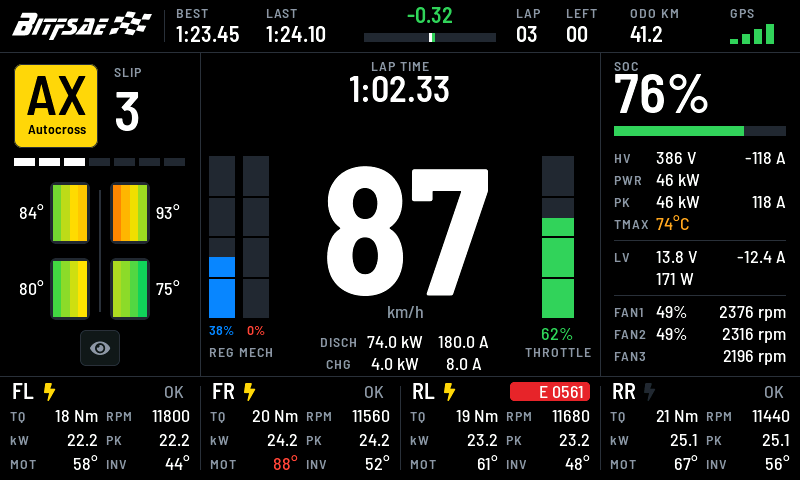
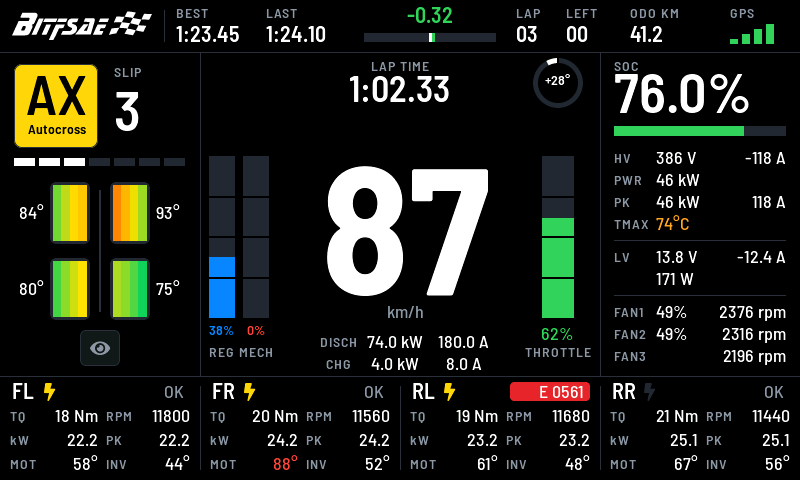
feat(ui): 中栏增加方向盘转角环
- 0x305 的 SteeringWheelAngle（0.1°，左转为正）送入界面：新增 DASH_VALID_STEER、
  CAN_SRC_STEER 和 DASH_DIRTY_STEER，视图新增 Dash_View_SetSteering()
- 圈速右侧、油门条上方的 50 px 圆环：白色圆弧自 12 点按实际转角 1:1 绘制，
  限幅 ±180°，环内显示整数度；整帧超时后显示 -- 并清空圆弧
- 测试覆盖解码极值、有效位与超时、圆弧方向、限幅、舍入和失效；
  模拟器演示加入 ±137° 摆动；文档与界面截图同步

Changed region(s): [[0.8125, 0.1562, 0.9375, 0.25], [0.6562, 0.125, 0.75, 0.25]]

diff --git a/tools/tests/firmware_regression.c b/tools/tests/firmware_regression.c
@@ -197,7 +197,7 @@ static void test_can(void)
     puts("CAN: bounded FIFO, queue saturation, short/remote frames, valid DLCs and steering relay passed");
 }
 /* Every DASH_VALID_* bit, for tests that feed hand-built telemetry to the UI. */
-#define TEST_ALL_VALID ((DASH_VALID_REGEN<<1)-1U)
+#define TEST_ALL_VALID ((DASH_VALID_STEER<<1)-1U)
 static void inject(uint16_t id,unsigned dlc,const uint8_t *bytes)
 {
     memset(test_rx_data,0,8);memcpy(test_rx_data,bytes,dlc);
@@ -439,6 +439,17 @@ static void test_can_decode(void)
             assert(d->oil_pressure==cases[i].oil&&d->aps_open_pct==50);          /* 油门仍取 byte2..3 */
         }
     }
+    /* 0x305 方向盘转角：byte0..1 小端有符号 0.1°，左转为正；与油门同帧，独立有效位。 */
+    {
+        struct {uint8_t lo,hi;int32_t raw;} const cases[]={{0x00,0x00,0},{0x72,0x05,1394},{0x8E,0xFA,-1394},
+                                                           {0xFF,0x7F,32767},{0x00,0x80,-32768}};
+        for(unsigned i=0;i<sizeof(cases)/sizeof(cases[0]);i++) {
+            const uint8_t f[6]={cases[i].lo,cases[i].hi, 0xF4,0x01, 0x57,0x08};
+            inject(0x305,6,f);
+            assert((d->valid_mask&DASH_VALID_STEER)!=0&&d->steering_angle==cases[i].raw);
+            assert(d->aps_open_pct==50&&d->oil_pressure==2135);                 /* 其余字段不受影响 */
+        }
+    }
     /* Silence drops the valid bits: ECU frames after 1 s, BMS after 2 s, never-seen sources stay invalid. */
     {
         const uint8_t fan[8]={0x08,0x00, 0x08,0x00, 0x08,0x00, 40,41};
@@ -452,7 +463,7 @@ static void test_can_decode(void)
         assert((d->valid_mask&DASH_VALID_FAN)==0&&(d->valid_mask&DASH_VALID_SOC)!=0);
         test_tick+=500;User_CAN_ServiceTimeouts(test_tick);
         assert((d->valid_mask&(DASH_VALID_SOC|DASH_VALID_HV_V|DASH_VALID_HV_I))==0);
-        assert((d->valid_mask&(DASH_VALID_BRAKE|DASH_VALID_APS))==0);               /* 0x305 timed out */
+        assert((d->valid_mask&(DASH_VALID_BRAKE|DASH_VALID_APS|DASH_VALID_STEER))==0); /* 0x305 timed out */
         assert((d->valid_mask&DASH_VALID_REGEN)==0);                                /* encoder also timed out */
         Dashboard_UI_Process();test_tick+=300;Dashboard_UI_Process();
         assert((Dashboard_UI_GetCurrentData()->valid_mask&DASH_VALID_SOC)==0);       /* and the UI copy follows */
@@ -1657,6 +1668,50 @@ static void test_ui(void)
     lv_mem_monitor_t m;lv_mem_monitor(&m);assert(m.free_size>1024);
     printf("UI: 400 telemetry/mode/alert cycles, identical-value skip and 120 KiB host pool passed (peak %zu, free %zu)\n",m.max_used,m.free_size);
 }
+/* 方向盘转角环：UI 副本与有效位、圆弧方向（左转为正，自 12 点逆时针）、±180° 限幅、无效时清空。
+ * 环心 (558,83)、外半径 25、环宽 5，取环上 9/3/6 点钟及 12 点钟两侧的像素判断是否为白色圆弧；
+ * 探针避开 90° 整数边界（9/3 点钟取上移 3 px），免得落在圆弧端点的抗锯齿边上。 */
+static void test_steering_ring(void)
+{
+    enum {CX=558,CY=83,R=22};
+    #define RING_WHITE(dx,dy) (frame_pixels[(CY+(dy))*800+CX+(dx)]==0xFFFFU)
+    struct {int32_t raw;unsigned valid;int nine,three,six_left,six_right,top_left,top_right;} const cases[]={
+        /*  0.1°    valid  9点 3点 6点左 6点右 12点左 12点右 */
+        {  900,    1,     1,  0,   0,    0,    1,     0},   /* 左转 90°：圆弧在左半环 */
+        { -900,    1,     0,  1,   0,    0,    0,     1},   /* 右转 90° */
+        { 1800,    1,     1,  0,   1,    0,    1,     0},   /* 左转 180°：到 6 点钟为止 */
+        { 3000,    1,     1,  0,   1,    0,    1,     0},   /* 300° 限幅为 180°，不绕到右半环 */
+        {-3000,    1,     0,  1,   0,    1,    0,     1},
+        {    0,    1,     0,  0,   0,    0,    0,     0},   /* 回正：只剩灰色底环 */
+        {   -4,    1,     0,  0,   0,    0,    0,     0},   /* 0.4° 四舍五入为 0° */
+        {  900,    0,     0,  0,   0,    0,    0,     0},   /* 数据失效：清空圆弧并显示 -- */
+        {32767,    1,     1,  0,   1,    0,    1,     0},   /* int16 极值不溢出 */
+        {-32768,   1,     0,  1,   0,    1,    0,     1},
+    };
+    for(unsigned i=0;i<sizeof(cases)/sizeof(cases[0]);i++) {
+        dashboard_data_t data=*Dashboard_UI_GetCurrentData();
+        data.valid_mask=TEST_ALL_VALID&~(cases[i].valid?0U:DASH_VALID_STEER);
+        data.steering_angle=cases[i].raw;
+        Dashboard_UI_SubmitData(&data);test_tick+=300;Dashboard_UI_Process();lv_refr_now(NULL);
+        assert(Dashboard_UI_GetCurrentData()->steering_angle==cases[i].raw);
+        assert(((Dashboard_UI_GetCurrentData()->valid_mask&DASH_VALID_STEER)!=0U)==(cases[i].valid!=0U));
+        assert(RING_WHITE(-R,-3)==cases[i].nine&&RING_WHITE(R,-3)==cases[i].three);
+        assert(RING_WHITE(-3,R)==cases[i].six_left&&RING_WHITE(3,R)==cases[i].six_right);
+        assert(RING_WHITE(-4,-R)==cases[i].top_left&&RING_WHITE(4,-R)==cases[i].top_right);
+    }
+    /* 再次提交同一角度不得触发任何重绘。 */
+    {
+        dashboard_data_t data=*Dashboard_UI_GetCurrentData();
+        data.valid_mask|=DASH_VALID_STEER;data.steering_angle=-32768;
+        Dashboard_UI_SubmitData(&data);test_tick+=300;Dashboard_UI_Process();lv_refr_now(NULL);
+        flushes=0;Dash_View_SetSteering(-32768);lv_refr_now(NULL);assert(flushes==0);
+    }
+    /* 视图接口本身接受任意 int32（含无效哨兵），不得溢出。 */
+    Dash_View_SetSteering(INT32_MAX);Dash_View_SetSteering(INT32_MIN+1);Dash_View_SetSteering(DASH_VIEW_INVALID);
+    lv_refr_now(NULL);
+    #undef RING_WHITE
+    puts("Steering ring: CAN sign, direction, clamp, rounding, invalid and identical-value skip passed");
+}
 /* Representative telemetry for screenshots: one frame per drive mode plus an
  * alert frame (mode-4), the S-mode READY banner (mode-5) and the no-data frame (mode-6). */
 static void save_frame(const char *directory,unsigned index)
@@ -1672,7 +1727,7 @@ static void render_modes(const char *directory)
     dashboard_data_t data=*Dashboard_UI_GetCurrentData();
     data.valid_mask=TEST_ALL_VALID;data.soc=760;data.sum_voltage=386;data.sum_current=-118;
     data.sum_voltage_dv=3860;data.sum_current_da=-1180;data.max_temperature=74;
-    data.aps_open_pct=62;data.brake_pct=0;data.regen_pct=38;
+    data.aps_open_pct=62;data.brake_pct=0;data.regen_pct=38;data.steering_angle=280;
     data.lv_bus_voltage_mV=13820;data.lv_bus_current_cA=-1240;data.lv_bus_power_dW=1712;
     data.fan_rpm[0]=2376;data.fan_rpm[1]=2316;data.fan_rpm[2]=2196;data.fan_pwm_duty[0]=49;data.fan_pwm_duty[1]=49;
     data.sop_discharge_power_dkw=740;data.sop_charge_power_dkw=40;data.sop_discharge_current_da=1800;data.sop_charge_current_da=80;
@@ -1867,6 +1922,6 @@ int main(int argc,char **argv)
     else test_splash();
 #endif
     if(argc==2) {render_modes(argv[1]);return 0;}
-    test_can();test_can_tx_recovery();test_brake_pedal_module();test_can_decode();test_brake_pedal_can();test_steering();test_odometer();test_gps();test_speed_module();test_gps_pipeline();test_continuity();test_gps_link();test_gps_config();test_cli();test_ui_speed();test_mode_touch();test_mode_touch_release();test_default_mode();test_ui();test_motor_peak();test_gps_motion();test_can_tx_sustained();return 0;
+    test_can();test_can_tx_recovery();test_brake_pedal_module();test_can_decode();test_brake_pedal_can();test_steering();test_odometer();test_gps();test_speed_module();test_gps_pipeline();test_continuity();test_gps_link();test_gps_config();test_cli();test_ui_speed();test_mode_touch();test_mode_touch_release();test_default_mode();test_ui();test_steering_ring();test_motor_peak();test_gps_motion();test_can_tx_sustained();return 0;
 }
 /* USER CODE END Firmware_Regression */

diff --git a/stm32_port/Core/Src/dashboard_view.c b/stm32_port/Core/Src/dashboard_view.c
@@ -4,7 +4,7 @@
  * Layout (px):
  *   0..52    top bar: logo image | BEST | LAST | delta | LAP | LEFT | ODO | GPS
  *   52..376  left 0..200: mode tile, slip, tyre map, night button
- *            centre 200..600: lap time, alert banner, speed, pedal bars
+ *            centre 200..600: lap time, steering ring, alert banner, speed, pedal bars
  *            right 600..800: SOC, HV, power, max temp, LV bus, fans
  *   376..480 four motor columns FL | FR | RL | RR
  *
@@ -83,6 +83,16 @@ extern const lv_image_dsc_t dash_logo; /* 140x29 A8, tools/gen_dash_logo.sh */
 #define MECH_X       243
 #define BRAKE_PEDAL_W 26
 #define THROTTLE_X   542
+
+/* 方向盘转角环：在圈速时间右侧、油门条正上方（圆心与油门条同一竖线），
+ * 底边留 2 px 给 y=110 起的告警横幅。圆弧自 12 点起按 1:1 的实际转角绘制，
+ * 限幅 ±180°；环内文字为整数度，限幅 ±999 以保证放得进环内。 */
+#define STEER_D      50
+#define STEER_X      (THROTTLE_X + PEDAL_W / 2 - STEER_D / 2)
+#define STEER_Y      58
+#define STEER_W      5
+#define STEER_ARC_MAX_DEG 180
+#define STEER_TEXT_MAX_DEG 999
 
 #define TIRE_W       40
 #define TIRE_H       62
@@ -164,6 +174,8 @@ static struct {
     lv_obj_t * regen_pct;
     lv_obj_t * throttle_bar;
     lv_obj_t * throttle_pct;
+    lv_obj_t * steer_ring;
+    lv_obj_t * steer_value;
     lv_obj_t * soc;
     lv_obj_t * soc_bar;
     lv_obj_t * hv_voltage;
@@ -200,6 +212,7 @@ static dash_bar_t s_regen_bar = {0, 100, C_BLUE, 1, 1};
 static dash_bar_t s_throttle_bar = {0, 100, C_GREEN, 1, 1};
 static dash_bar_t s_soc_bar = {0, 1000, C_GREEN, 0, 0};
 static int32_t s_delta;
+static int32_t s_steer_deg = DASH_VIEW_INVALID;  /* 整数度，左转为正 */
 static int32_t s_slip = -1;
 static int32_t s_signal = -1;
 static int32_t s_speed = -1;
@@ -385,6 +398,40 @@ static void delta_draw_cb(lv_event_t * e)
     if(s_delta < 0) fill_rect(layer, centre + 1, a.y1, centre + fill, a.y2, C_GREEN);
     else if(s_delta > 0) fill_rect(layer, centre - fill, a.y1, centre - 1, a.y2, C_RED);
     fill_rect(layer, centre - 1, a.y1 - 3, centre + 1, a.y2 + 3, C_TEXT);
+}
+
+/* Steering ring: grey track plus a white arc from 12 o'clock towards the turn
+ * direction (left = counter-clockwise, as the rim moves). LVGL angles count
+ * clockwise from 3 o'clock, so 12 o'clock is 270. A black notch marks centre. */
+static void steer_draw_cb(lv_event_t * e)
+{
+    lv_layer_t * layer = lv_event_get_layer(e);
+    lv_draw_arc_dsc_t dsc;
+    lv_area_t a;
+    int32_t sweep = s_steer_deg;
+
+    lv_obj_get_coords(lv_event_get_current_target_obj(e), &a);
+    lv_draw_arc_dsc_init(&dsc);
+    dsc.center.x = a.x1 + lv_area_get_width(&a) / 2;
+    dsc.center.y = a.y1 + lv_area_get_height(&a) / 2;
+    dsc.radius = (uint16_t)(lv_area_get_width(&a) / 2);
+    dsc.width = STEER_W;
+    dsc.color = lv_color_hex(C_TRACK);
+    dsc.start_angle = 0;
+    dsc.end_angle = 360;
+    lv_draw_arc(layer, &dsc);
+
+    if(sweep != DASH_VIEW_INVALID) {
+        if(sweep > STEER_ARC_MAX_DEG) sweep = STEER_ARC_MAX_DEG;
+        if(sweep < -STEER_ARC_MAX_DEG) sweep = -STEER_ARC_MAX_DEG;
+        if(sweep != 0) {
+            dsc.color = lv_color_hex(C_TEXT);
+            dsc.start_angle = (sweep > 0) ? (270 - sweep) : 270;
+            dsc.end_angle = (sweep > 0) ? 270 : (270 - sweep);
+            lv_draw_arc(layer, &dsc);
+        }
+    }
+    fill_rect(layer, dsc.center.x - 1, a.y1, dsc.center.x, a.y1 + STEER_W - 1, C_BG);
 }
 
 static void slip_draw_cb(lv_event_t * e)
@@ -591,6 +638,12 @@ static void create_centre(lv_obj_t * scr)
                          &st_aux_value, 234, 44, &ui.brake_pct);
     ui.throttle_bar = pedal(scr, THROTTLE_X, PEDAL_W, &s_throttle_bar, "THROTTLE", C_GREEN,
                             &st_value, THROTTLE_X - 26, 84, &ui.throttle_pct);
+
+    ui.steer_ring = make_box(scr, STEER_X, STEER_Y, STEER_D, STEER_D);
+    lv_obj_add_event_cb(ui.steer_ring, steer_draw_cb, LV_EVENT_DRAW_MAIN, NULL);
+    ui.steer_value = make_label(scr, &st_aux_value, STEER_X, STEER_Y + (STEER_D - 17) / 2,
+                                STEER_D, &st_center, "--");
+    lv_obj_set_style_text_color(ui.steer_value, lv_color_hex(C_DIM), 0);
 
     /* Created last so the banner paints over the lap-time row edges. */
     ui.alert_box = make_box(scr, ALERT_X, ALERT_Y, ALERT_W, ALERT_H);
@@ -821,6 +874,31 @@ void Dash_View_SetPedals(int32_t throttle_pct, int32_t mechanical_brake_pct,
     set_pedal(ui.throttle_bar, &s_throttle_bar, ui.throttle_pct, throttle_pct);
     set_pedal(ui.brake_bar, &s_brake_bar, ui.brake_pct, mechanical_brake_pct);
     set_pedal(ui.regen_bar, &s_regen_bar, ui.regen_pct, regen_pct);
+}
+
+void Dash_View_SetSteering(int32_t angle_deci)
+{
+    char buf[8];
+    int32_t deg = DASH_VIEW_INVALID;
+
+    if(angle_deci != DASH_VIEW_INVALID) {
+        /* 先限幅再四舍五入到整数度（远离零），避免极端输入在取反或加 5 时溢出。 */
+        const int32_t limit = STEER_TEXT_MAX_DEG * 10;
+        if(angle_deci > limit) angle_deci = limit;
+        if(angle_deci < -limit) angle_deci = -limit;
+        deg = (angle_deci >= 0) ? (angle_deci + 5) / 10 : -((-angle_deci + 5) / 10);
+    }
+    if(deg == s_steer_deg) return;
+    s_steer_deg = deg;
+    lv_obj_invalidate(ui.steer_ring);
+    if(deg == DASH_VIEW_INVALID) {
+        set_text(ui.steer_value, "--");
+        set_text_color(ui.steer_value, C_DIM);
+        return;
+    }
+    lv_snprintf(buf, sizeof(buf), "%s%ld" DEG, (deg > 0) ? "+" : "", (long)deg);
+    set_text(ui.steer_value, buf);
+    set_text_color(ui.steer_value, C_TEXT);
 }
 
 void Dash_View_SetBattery(int32_t soc_pct, int32_t voltage_v, int32_t current_a)

diff --git a/stm32_port/Core/Src/dashboard_ui.c b/stm32_port/Core/Src/dashboard_ui.c
@@ -103,12 +103,14 @@ static uint32_t g_lap_analysis_blink_tick = 0U;
 #define DASH_DIRTY_LOWVOLTAGE (1UL << 13)
 #define DASH_DIRTY_FANS     (1UL << 14)
 #define DASH_DIRTY_SOP      (1UL << 15)
-#define DASH_DIRTY_MOTORS   (DASH_DIRTY_MOTOR_0 | DASH_DIRTY_MOTOR_1 | \
+#define DASH_DIRTY_STEER    (1UL << 16)
+#define DASH_DIRTY_MOTORS  (DASH_DIRTY_MOTOR_0 | DASH_DIRTY_MOTOR_1 | \
                              DASH_DIRTY_MOTOR_2 | DASH_DIRTY_MOTOR_3)
 #define DASH_DIRTY_TIRES    (DASH_DIRTY_TIRE_0 | DASH_DIRTY_TIRE_1 | \
                              DASH_DIRTY_TIRE_2 | DASH_DIRTY_TIRE_3)
 #define DASH_DIRTY_FAST     (DASH_DIRTY_MODE | DASH_DIRTY_PEDALS | DASH_DIRTY_MOTORS | \
-                             DASH_DIRTY_SLIP | DASH_DIRTY_TIRES | DASH_DIRTY_FANS)
+                             DASH_DIRTY_SLIP | DASH_DIRTY_TIRES | DASH_DIRTY_FANS | \
+                             DASH_DIRTY_STEER)
 #define DASH_DIRTY_SLOW     (DASH_DIRTY_BATTERY | DASH_DIRTY_ODOMETER | \
                              DASH_DIRTY_LOWVOLTAGE | DASH_DIRTY_SOP)
 #define DASH_DIRTY_ALL      (DASH_DIRTY_FAST | DASH_DIRTY_SLOW)
@@ -695,6 +697,9 @@ static void dashboard_apply_data(uint32_t dirty_mask)
                             ((valid & DASH_VALID_BRAKE) != 0U) ? g_dashboard_data.brake_pct : DASH_VIEW_INVALID,
                             ((valid & DASH_VALID_REGEN) != 0U) ? g_dashboard_data.regen_pct : DASH_VIEW_INVALID);
     }
+    if((dirty_mask & DASH_DIRTY_STEER) != 0U) {
+        Dash_View_SetSteering(((valid & DASH_VALID_STEER) != 0U) ? g_dashboard_data.steering_angle : DASH_VIEW_INVALID);
+    }
     if((dirty_mask & DASH_DIRTY_LOWVOLTAGE) != 0U) {
         /* DBC BO_1440 PDM_LowVoltageBus: mV/cA/dW raw engineering units */
         if((valid & DASH_VALID_LV_BUS) != 0U) {
@@ -764,6 +769,10 @@ void Dashboard_UI_SubmitData(const dashboard_data_t * data)
        ((valid_changed & DASH_VALID_PEDAL_GROUP) != 0U)) {
         dirty_mask |= DASH_DIRTY_PEDALS;
     }
+    if((g_pending_dashboard_data.steering_angle != data->steering_angle) ||
+       ((valid_changed & DASH_VALID_STEER) != 0U)) {
+        dirty_mask |= DASH_DIRTY_STEER;
+    }
     if((g_pending_dashboard_data.lv_bus_voltage_mV != data->lv_bus_voltage_mV) ||
        (g_pending_dashboard_data.lv_bus_current_cA != data->lv_bus_current_cA) ||
        (g_pending_dashboard_data.lv_bus_power_dW != data->lv_bus_power_dW) ||
@@ -811,6 +820,7 @@ void Dashboard_UI_SubmitData(const dashboard_data_t * data)
     g_pending_dashboard_data.sum_current_da = data->sum_current_da;
     g_pending_dashboard_data.max_temperature = data->max_temperature;
     g_pending_dashboard_data.aps_open_pct = data->aps_open_pct;
+    g_pending_dashboard_data.steering_angle = data->steering_angle;
     g_pending_dashboard_data.lv_bus_voltage_mV = data->lv_bus_voltage_mV;
     g_pending_dashboard_data.lv_bus_current_cA = data->lv_bus_current_cA;
     g_pending_dashboard_data.lv_bus_power_dW = data->lv_bus_power_dW;
@@ -1380,6 +1390,10 @@ void Dashboard_UI_Process(void)
             g_dashboard_data.brake_pct = g_pending_dashboard_data.brake_pct;
             g_dashboard_data.regen_pct = g_pending_dashboard_data.regen_pct;
             dashboard_copy_valid(DASH_VALID_PEDAL_GROUP);
+        }
+        if((dashboard_mask & DASH_DIRTY_STEER) != 0U) {
+            g_dashboard_data.steering_angle = g_pending_dashboard_data.steering_angle;
+            dashboard_copy_valid(DASH_VALID_STEER);
         }
         if((dashboard_mask & DASH_DIRTY_LOWVOLTAGE) != 0U) {
             g_dashboard_data.lv_bus_voltage_mV = g_pending_dashboard_data.lv_bus_voltage_mV;

diff --git a/stm32_port/Core/Src/can.c b/stm32_port/Core/Src/can.c
@@ -159,6 +159,7 @@ typedef enum {
   CAN_SRC_BMS,
   CAN_SRC_APS,
   CAN_SRC_MECH_BRAKE,
+  CAN_SRC_STEER,
   CAN_SRC_BRAKE_ANGLE,
   CAN_SRC_TORQUE,
   CAN_SRC_RPM,
@@ -197,6 +198,7 @@ static const struct {
   [CAN_SRC_BMS]        = {DASH_VALID_SOC | DASH_VALID_HV_V | DASH_VALID_HV_I, CAN_TIMEOUT_BMS_MS},
   [CAN_SRC_APS]        = {DASH_VALID_APS,        CAN_TIMEOUT_ECU_MS},
   [CAN_SRC_MECH_BRAKE] = {DASH_VALID_BRAKE,      CAN_TIMEOUT_ECU_MS},
+  [CAN_SRC_STEER]      = {DASH_VALID_STEER,      CAN_TIMEOUT_ECU_MS},
   [CAN_SRC_BRAKE_ANGLE] = {DASH_VALID_REGEN,     CAN_TIMEOUT_BRAKE_ANGLE_MS},
   [CAN_SRC_TORQUE]     = {DASH_VALID_TORQUE,     CAN_TIMEOUT_ECU_MS},
   [CAN_SRC_RPM]        = {DASH_VALID_RPM,        CAN_TIMEOUT_ECU_MS},
@@ -1005,8 +1007,11 @@ static void User_CAN_ProcessFifo0(const User_CAN_RxItem_t *frame)
      * 左路 L（Byte6..7）当前不使用，DLC=8 帧也只取前 6 字节。 */
     case 0x305:
     {
-      /* SG_ SteeringWheelAngle: 0|16@1- (0.1,0) deg, stored as the raw 0.1 deg count */
+      /* SG_ SteeringWheelAngle: 0|16@1- (0.1,0) deg, stored as the raw 0.1 deg count;
+       * 左转为正。与油门同帧，单独计新鲜度，由界面显示转角环。 */
       g_can_dashboard_data.steering_angle = (int32_t)(int16_t)can_u16_le(CAN_RxData, 0U);
+      User_CAN_NoteRx(CAN_SRC_STEER, now);
+      User_CAN_SetValid(DASH_VALID_STEER, 1U);
       /* SG_ APS_OpenPct: 16|16@1+ (0.1,0) %, store integer pct */
       g_can_dashboard_data.aps_open_pct = (int32_t)(can_u16_le(CAN_RxData, 2U) / 10U);
       /* SG_ OilPressure_R: 32|16@1+ (0.001,0) Kpa, raw count */

diff --git a/stm32_port/Core/Inc/dashboard_ui.h b/stm32_port/Core/Inc/dashboard_ui.h
@@ -28,6 +28,7 @@ extern "C" {
 #define DASH_VALID_SOP_POWER   (1UL << 15)  /* 0x4A0, LimitsValid=1 且 CRC/版本通过 */
 #define DASH_VALID_SOP_CURRENT (1UL << 16)  /* 0x4A3, 版本通过且 InputHealth bit7=1 */
 #define DASH_VALID_REGEN       (1UL << 17)  /* 0x001 踏板编码器位置帧新鲜 */
+#define DASH_VALID_STEER       (1UL << 18)  /* 0x305 方向盘转角，与油门同帧同超时 */
 
 typedef struct {
 	/* Display speed in integer km/h; -1 = no trusted speed (shown as "--").
@@ -60,7 +61,8 @@ typedef struct {
 	int32_t motor_temp[4];
 	/* DBC BO_773 DataLogger: APS_OpenPct (0.1,0) % */
 	int32_t aps_open_pct;
-	/* DBC BO_773 DataLogger: SteeringWheelAngle (0.1,0) deg */
+	/* DBC BO_773 DataLogger: SteeringWheelAngle (0.1,0) deg，保存 0.1° 原始计数；
+	 * 左转为正、右转为负（用户确认），DBC 量程 -3276.8..3276.7°。 */
 	int32_t steering_angle;
 	/* DBC BO_773 DataLogger: OilPressure_R (0.001,0) Kpa，机械制动条取后油压 */
 	int32_t oil_pressure;

diff --git a/stm32_port/Core/Inc/dashboard_view.h b/stm32_port/Core/Inc/dashboard_view.h
@@ -74,6 +74,9 @@ void Dash_View_SetSlip(int32_t level);
 /* 三条独立开度条：油门、机械制动（油压）、能量回收（踏板转角）。 */
 void Dash_View_SetPedals(int32_t throttle_pct, int32_t mechanical_brake_pct,
                          int32_t regen_pct);
+/* 方向盘转角环，单位 0.1°，左转为正、右转为负；DASH_VIEW_INVALID 显示 "--" 并清空圆弧。
+ * 圆弧自 12 点起按 1:1 的实际转角绘制，超过 ±180° 的部分只限幅圆弧，数字仍显示实际值。 */
+void Dash_View_SetSteering(int32_t angle_deci);
 void Dash_View_SetBattery(int32_t soc_pct_x10, int32_t voltage_v, int32_t current_a);
 /* peak_kw: highest discharge power since power-on; DASH_VIEW_INVALID until
  * the first valid sample. */

diff --git a/src/freertos_main.c b/src/freertos_main.c
@@ -126,6 +126,8 @@ static void demo_timer_cb(lv_timer_t * timer)
     regen = (g_tick % 200U) >= 100U ? triangle(g_tick, 100U, 100) : 0;
     Dash_View_SetSpeed(speed);
     Dash_View_SetPedals(throttle, brake, regen);
+    /* 20 s 内由右极限摆到左极限再回来：0.1° 单位，峰值 ±137°，左转为正。 */
+    Dash_View_SetSteering(triangle(g_tick, 200U, 2740) - 1370);
 
     soc = 1000 - (int32_t)((g_tick / 5U) % 1000U);
     current = throttle * 3;

diff --git a/CHANGELOG.md b/CHANGELOG.md
@@ -2,6 +2,14 @@
 
 ## 未发布
 
+### 2026-11-03 仪表盘增加方向盘转角环
+
+- 中栏圈速时间右侧、油门条正上方新增转角环（50 px）：灰色底环上，白色圆弧自 12 点按 `0x305` 的 `SteeringWheelAngle` 实际转角 1:1 绘制，左转逆时针、右转顺时针，12 点处黑色刻线表示正中；环内显示整数度（左转 `+`、右转 `-`）。圆弧限幅 ±180°，数字限幅 ±999°。绘制沿用单对象 + 绘制回调，无渐变、阴影和透明度。
+- `can.c` 原本已解码转角但没有送到界面：新增 `DASH_VALID_STEER`、`CAN_SRC_STEER`（与油门同帧，共用 1000 ms 超时、独立有效位），`dashboard_ui.c` 新增 `DASH_DIRTY_STEER`（入快速组，50 ms 节流），视图新增 `Dash_View_SetSteering()`。超时后环变灰显示 `--` 并清空圆弧；该帧没有自报无效位。
+- 左转为正按用户确认使用；中央库 `SteeringWheelAngle` 注释未写正方向，已记入 `docs/can_interface.md` 的“与中央库尚未对齐”，未修改中央库。模拟器演示数据加入 ±137° 摆动（取 CanA 注释的量程）。文档同步 `can_interface.md`、`can_network.md`、`configuration.md`、`dashboard_ui.md`；三张界面截图已重新生成（旧图的 SOC 仍是 `76%`，与现有代码的 `76.0%` 不一致，一并刷新）。
+- 验证：`python3 tools/run_firmware_tests.py`（ASan/UBSan）通过，新增 `test_steering_ring`（0.1° 小端有符号解码与极值、有效位与 1 s 超时、左右转圆弧像素方向、±180° 限幅、0.4° 四舍五入为 0°、失效清空、相同角度不重绘、`INT32_MAX/MIN+1` 不溢出）；`./build_fw.sh` 无新增警告，Flash 298,268 B（+864 B）、主 SRAM 108,800 B（+16 B）、CCM 61,440 B；`./run_sim_mac.sh --build-only` 通过。主机回归 LVGL 池峰值 59,168 → 59,936 B（64 位指针，目标机应更低）。
+- **未验证 / 待办**：尚未烧录；需实车确认转角符号（左转为正）、零位和实际量程是否与 ±137° 一致，以及 `0x305` 实际周期。`lv_draw_sw_arc` 栈帧 592 B，Dashboard 栈 12 KiB 未实测水位；CCM 池余量需看 `g_firmware_diag.lvgl_*`。环内 `-137°` 字宽较贴内沿，真机屏上的可读性未确认。未运行 CubeIDE 完整构建。
+
 ### 2026-11-03 制动踏板转角改为固定零点，机械制动取后油压
 
 - `0x001`（BRT25 转角传感器）仍只接收位置帧，不发送配置命令。按用户确认，传感器已在踏板释放位清零且精度满足要求，删除在线零点跟踪（1.5 s 静止窗口、峰峰值判据、中位数、油压静止耦合和高位保持），直接按释放位 0 count 换算。能量回收满量程由 7.0° 改为 20.0°，死区保持 0.3°；编码器 150 ms 超时后仍显示 `--`。

diff --git a/docs/can_network.md b/docs/can_network.md
@@ -19,7 +19,7 @@ CAN2 与 CANB 在电气上分开。方向盘的帧 ID 登记在中央库的 `Veh
 | --- | --- | --- | --- | --- |
 | 电池 SOC、总压、电流 | `0x4B0` | BMS | 右栏 | 2 s 后显示 `--` |
 | 允许的放电/回收功率与电流（SOP） | `0x4A0`、`0x4A3` | BMS | 中栏车速下方 | 0.3 s / 1.5 s 后显示 `--` |
-| 油门开度、油压（机械制动开度） | `0x305` | ECU | 中栏油门、机械制动条 | 1 s 后 `--` |
+| 油门开度、油压（机械制动开度）、方向盘转角 | `0x305` | ECU | 中栏油门、机械制动条、转角环 | 1 s 后 `--` |
 | 踏板转角（能量回收开度） | `0x001` | BRT25-C0M4096-RT1 | 中栏能量回收条 | 150 ms 后 `--`；传感器释放位为 0 count，不做在线零点跟踪 |
 | 四轮扭矩、转速、电机/逆变器/IGBT 温度、AMK 故障码、电机使能 | `0x502..0x509` | ECU | 底栏、右栏 TMAX | 1 s 后 `--` |
 | 驾驶模式（ECU 回报） | `0x509` | ECU | 左栏模式色块 | 保持上一个模式 |
